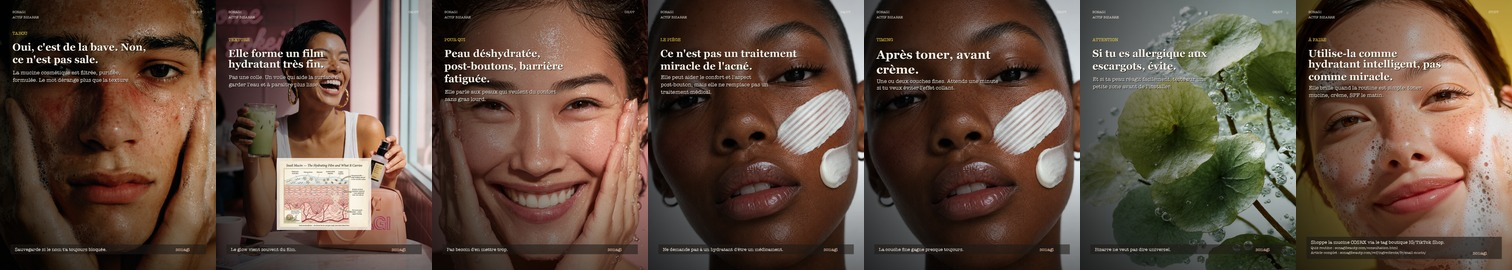
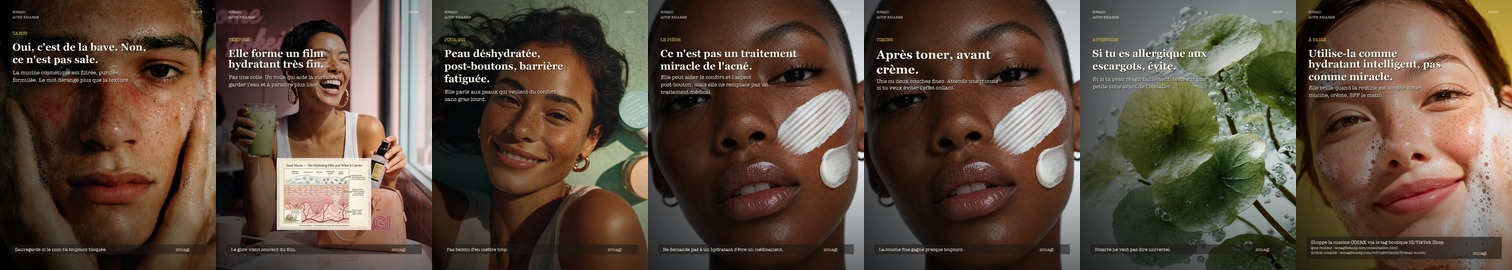
Use Iris assets in Sonagi carousel workflow

Changed region(s): [[0.2798, 0.0, 0.4352, 1.0]]

diff --git a/social-media/instagram/french/to-be-approved/2026/june/week2/launch-carousel-bank-auteur-v1-2026-06-10/generate_launch_bank.py b/social-media/instagram/french/to-be-approved/2026/june/week2/launch-carousel-bank-auteur-v1-2026-06-10/generate_launch_bank.py
@@ -201,6 +201,7 @@ def preview(deck, paths):
 
 IMG = REF / "assets/images"
 DIA = REF / "assets/diagrams"
+IRIS = IMG / "_prompt-library/outputs"
 
 decks = [
     {
@@ -232,7 +233,7 @@ decks = [
         "slides": [
             {"bg": IMG/"sections/comprendre-hero.webp", "kicker": "Mécanisme", "title": "Ta peau se défend avec de l'acidité.", "body": "Pas une acidité qui brûle. Une acidité fine, biologique, qui garde la surface stable.", "cta": "Garde cette slide si ta peau réagit à tout."},
             {"bg": IMG/"basics/_originals/skin-ph-asma.png", "kicker": "La zone", "title": "4,5 à 5,5 : c'est la plage utile.", "body": "Dans cette zone, la couche cornée fonctionne mieux et la barrière se répare plus proprement.", "visual": DIA/"le-ph-de-la-peau.webp", "cta": "Un chiffre peut expliquer beaucoup de tiraillements."},
-            {"bg": IMG/"ingredients/heartleaf-body-1.webp", "kicker": "Après nettoyage", "title": "Un toner doux aide à revenir au calme.", "body": "Il ne doit pas piquer. Il doit remettre de l'eau, du confort, et préparer la suite.", "cta": "Le toner n'est pas une punition alcoolisée."},
+            {"bg": IRIS/"018-heartleaf-body-v1.webp", "kicker": "Après nettoyage", "title": "Un toner doux aide à revenir au calme.", "body": "Il ne doit pas piquer. Il doit remettre de l'eau, du confort, et préparer la suite.", "cta": "Le toner n'est pas une punition alcoolisée."},
             {"bg": IMG/"techniques/glass-skin-2.webp", "kicker": "Texture", "title": "Une peau équilibrée reflète mieux la lumière.", "body": "Le glow commence rarement par un highlighter. Il commence par une surface qui retient l'eau.", "cta": "Le pH est moins glamour, mais plus fondamental."},
             {"bg": IMG/"sections/basic-hero.webp", "kicker": "Erreur", "title": "Le citron, le savon, l'eau chaude : trio faux ami.", "body": "Naturel ne veut pas dire compatible avec ton manteau acide.", "cta": "Simple ne veut pas dire brutal."},
             {"bg": IMG/"basics/la-barriere-cutanee-body-1.webp", "kicker": "Le lien", "title": "pH et barrière travaillent ensemble.", "body": "Quand le pH grimpe, la barrière devient plus perméable. Quand la barrière fuit, tout pique plus vite.", "cta": "Lis l'article complet pour le mécanisme."},
@@ -270,7 +271,7 @@ decks = [
             {"bg": IMG/"basics/hormones-phase-6-real.webp", "kicker": "Pourquoi", "title": "Sébum + kératine + lumière = pore visible.", "body": "Quand la surface est encombrée ou déshydratée, le relief accroche plus la lumière.", "visual": DIA/"le-sebum.webp", "cta": "La visibilité n'est pas une fatalité."},
             {"bg": IMG/"ingredients/niacinamide-hero.webp", "kicker": "Le levier", "title": "La niacinamide aide à réguler sans punir.", "body": "Elle vise le sébum, la barrière et l'inflammation légère. C'est plus fin qu'un produit qui décape.", "visual": DIA/"niacinamide-mechanism.webp", "cta": "Réguler bat assécher."},
             {"bg": IMG/"techniques/glass-skin-2.webp", "kicker": "Hydratation", "title": "Une peau déshydratée montre plus de texture.", "body": "Avant de chercher plus fort, remets de l'eau et protège le film de surface.", "cta": "Le pore visible n'est pas toujours gras."},
-            {"bg": IMG/"ingredients/heartleaf-body-1.webp", "kicker": "Tolérance", "title": "Si ça pique, tu perds le bénéfice.", "body": "Un actif utile devient inutile si la routine autour rend la peau nerveuse.", "cta": "Le calme est une stratégie."},
+            {"bg": IRIS/"018-heartleaf-body-v1.webp", "kicker": "Tolérance", "title": "Si ça pique, tu perds le bénéfice.", "body": "Un actif utile devient inutile si la routine autour rend la peau nerveuse.", "cta": "Le calme est une stratégie."},
             {"bg": IMG/"sections/comprendre-hero.webp", "kicker": "Attente", "title": "On vise moins visible, pas invisible.", "body": "Le but réaliste: surface plus régulière, brillance mieux tenue, taches qui s'installent moins.", "cta": "Pas de filtre, juste une meilleure logique."},
             {"bg": IMG/"cta/cta-newsletter.webp", "kicker": "À faire", "title": "Construis autour du pore, pas contre lui.", "body": "Nettoyage doux, niacinamide, hydratation, SPF. C'est moins spectaculaire, plus durable.", "cta": "Placeholder shop + quiz + article."},
         ],
@@ -286,7 +287,7 @@ decks = [
         "slides": [
             {"bg": IMG/"basics/reparer-barriere-hero.webp", "kicker": "Tabou", "title": "Oui, c'est de la bave. Non, ce n'est pas sale.", "body": "La mucine cosmétique est filtrée, purifiée, formulée. Le mot dérange plus que la texture.", "cta": "Sauvegarde si le nom t'a toujours bloquée."},
             {"bg": IMG/"ingredients/snail-mucin-body-1.webp", "kicker": "Texture", "title": "Elle forme un film hydratant très fin.", "body": "Pas une colle. Un voile qui aide la surface à garder l'eau et à paraître plus lisse.", "visual": DIA/"snail-mucin-mechanism.webp", "cta": "Le glow vient souvent du film."},
-            {"bg": IMG/"techniques/glass-skin-2.webp", "kicker": "Pour qui", "title": "Peau déshydratée, post-boutons, barrière fatiguée.", "body": "Elle parle aux peaux qui veulent du confort sans gras lourd.", "cta": "Pas besoin d'en mettre trop."},
+            {"bg": IRIS/"022-skin-flooding-body-v1.webp", "kicker": "Pour qui", "title": "Peau déshydratée, post-boutons, barrière fatiguée.", "body": "Elle parle aux peaux qui veulent du confort sans gras lourd.", "cta": "Pas besoin d'en mettre trop."},
             {"bg": IMG/"basics/la-barriere-cutanee-body-1.webp", "kicker": "Le piège", "title": "Ce n'est pas un traitement miracle de l'acné.", "body": "Elle peut aider le confort et l'aspect post-bouton, mais elle ne remplace pas un traitement médical.", "cta": "Ne demande pas à un hydratant d'être un médicament."},
             {"bg": IMG/"sections/routine-hero.webp", "kicker": "Timing", "title": "Après toner, avant crème.", "body": "Une ou deux couches fines. Attends une minute si tu veux éviter l'effet collant.", "cta": "La couche fine gagne presque toujours."},
             {"bg": IMG/"sections/ingredient-hero.webp", "kicker": "Attention", "title": "Si tu es allergique aux escargots, évite.", "body": "Et si ta peau réagit facilement, teste sur une petite zone avant de l'installer.", "cta": "Bizarre ne veut pas dire universel."},
@@ -338,7 +339,7 @@ decks = [
         "quiz_url": "sonagibeauty.com/consultation.html",
         "article_url": "sonagibeauty.com/ref/techniques/fr/glass-skin/",
         "slides": [
-            {"bg": IMG/"techniques/skin-flooding-body-1.webp", "kicker": "Mythe", "title": "Le glow K-beauty n'est pas une couche de gras.", "body": "Mool-gwang parle d'eau et de lumière, pas d'une surface saturée.", "cta": "Sauvegarde si ta routine brille mais tire."},
+            {"bg": IRIS/"022-skin-flooding-body-v1.webp", "kicker": "Mythe", "title": "Le glow K-beauty n'est pas une couche de gras.", "body": "Mool-gwang parle d'eau et de lumière, pas d'une surface saturée.", "cta": "Sauvegarde si ta routine brille mais tire."},
             {"bg": IMG/"techniques/glass-skin-2.webp", "kicker": "Optique", "title": "Une peau hydratée reflète autrement.", "body": "Quand la couche cornée retient l'eau, la lumière se pose plus régulièrement.", "visual": DIA/"glass-skin-mechanism.webp", "cta": "Le glow est d'abord une surface."},
             {"bg": IMG/"techniques/double-cleansing-hero.webp", "kicker": "Base", "title": "Le soir commence par retirer SPF et résidus.", "body": "Sans nettoyage doux, tu empiles du soin sur du bruit.", "cta": "La glass skin commence au lavabo."},
             {"bg": IMG/"ingredients/niacinamide-hero.webp", "kicker": "Actifs", "title": "Niacinamide, mucine, heartleaf : couches fines.", "body": "Le secret n'est pas le nombre de produits. C'est leur place, leur dose, leur tolérance.", "cta": "Une peau saturée n'est pas une peau hydratée."},
@@ -359,7 +360,7 @@ decks = [
             {"bg": IMG/"basics/hormones-age-hero.webp", "kicker": "Pattern", "title": "Même zone, même semaine, même bouton.", "body": "Quand ça revient autour du cycle, la peau raconte souvent une histoire hormonale.", "cta": "Sauvegarde si ton menton a un calendrier."},
             {"bg": IMG/"sections/technique-hero.webp", "kicker": "Zone", "title": "Bas du visage, mâchoire, menton.", "body": "Ce sont des zones fréquentes dans l'acné adulte hormonale, surtout quand la poussée est inflammatoire.", "visual": DIA/"acne-hormonale-mechanism.webp", "cta": "Observer le pattern aide déjà."},
             {"bg": IMG/"basics/hormones-phase-6-real.webp", "kicker": "Mécanisme", "title": "Les androgènes stimulent le sébum.", "body": "Plus de sébum, plus de kératine, plus de risque de microcomédon. Ce n'est pas une question de saleté.", "visual": DIA/"le-sebum.webp", "cta": "Laver plus fort n'est pas la réponse."},
-            {"bg": IMG/"ingredients/heartleaf-body-1.webp", "kicker": "Cosmétique", "title": "Les soins calment le terrain, ils ne traitent pas l'hormone.", "body": "Heartleaf, centella, niacinamide peuvent aider la tolérance et la barrière.", "cta": "Le rôle du soin doit rester honnête."},
+            {"bg": IRIS/"018-heartleaf-body-v1.webp", "kicker": "Cosmétique", "title": "Les soins calment le terrain, ils ne traitent pas l'hormone.", "body": "Heartleaf, centella, niacinamide peuvent aider la tolérance et la barrière.", "cta": "Le rôle du soin doit rester honnête."},
             {"bg": IMG/"techniques/double-cleansing-2.webp", "kicker": "Rituel", "title": "Nettoyer doux, surtout les soirs de SPF.", "body": "Le nettoyage doit sortir les résidus sans transformer la barrière en zone rouge.", "cta": "La régularité compte plus que la force."},
             {"bg": IMG/"basics/reparer-barriere-hero.webp", "kicker": "Alerte", "title": "Douleur, nodules, cicatrices : avis médical.", "body": "L'acné modérée à sévère relève du dermatologue. Le cosmétique accompagne, il ne remplace pas.", "cta": "Sonagi ne vend pas de miracle médical."},
             {"bg": IMG/"cta/cta-diagnostic.webp", "kicker": "À faire", "title": "Repère le cycle avant de changer toute ta routine.", "body": "Note la semaine, la zone, la douleur, puis construis une routine qui respecte la barrière.", "cta": "Placeholder shop + quiz + article."},
@@ -377,7 +378,7 @@ decks = [
             {"bg": IMG/"sections/basic-hero.webp", "kicker": "Hot take", "title": "Décaper l'acné peut nourrir l'inflammation.", "body": "Quand la peau est déjà en conflit, trop laver ou trop exfolier peut prolonger le stress.", "cta": "Sauvegarde avant ton prochain gommage."},
             {"bg": IMG/"ingredients/niacinamide-hero.webp", "kicker": "Objectif", "title": "On régule. On ne cherche pas le désert.", "body": "Le sébum protège aussi. Le but est de calmer l'excès, pas d'effacer la peau.", "visual": DIA/"niacinamide-mechanism.webp", "cta": "Une peau sèche peut être encore plus nerveuse."},
             {"bg": IMG/"ingredients/centella-asiatica-hero.webp", "kicker": "Calme", "title": "La centella parle aux peaux qui s'enflamment vite.", "body": "Peu d'ingrédients, texture simple, tolérance. C'est moins sexy qu'un peeling, souvent plus utile.", "cta": "Le calme est un actif."},
-            {"bg": IMG/"ingredients/heartleaf-body-1.webp", "kicker": "Rougeurs", "title": "Heartleaf aide quand la peau brille et rougit.", "body": "Le geste intéressant: apaiser pendant qu'on régule.", "visual": DIA/"heartleaf-mechanism.webp", "cta": "Pas besoin de faire mal pour agir."},
+            {"bg": IRIS/"018-heartleaf-body-v1.webp", "kicker": "Rougeurs", "title": "Heartleaf aide quand la peau brille et rougit.", "body": "Le geste intéressant: apaiser pendant qu'on régule.", "visual": DIA/"heartleaf-mechanism.webp", "cta": "Pas besoin de faire mal pour agir."},
             {"bg": IMG/"routines/routine-homme-body-1.webp", "kicker": "Nettoyage", "title": "Un nettoyant doux vaut mieux que deux agressifs.", "body": "Le soir, retire SPF et pollution. Mais la peau ne doit pas crisser ensuite.", "cta": "Propre n'est pas décapé."},
             {"bg": IMG/"basics/la-barriere-cutanee-body-1.webp", "kicker": "Barrière", "title": "Si tout pique, pause sur les actifs.", "body": "Une barrière abîmée transforme même de bons produits en problème.", "visual": DIA/"la-barriere-cutanee.webp", "cta": "Le reset est parfois la stratégie."},
             {"bg": IMG/"cta/cta-newsletter.webp", "kicker": "À faire", "title": "Construis une routine qui calme avant de corriger.", "body": "Si l'acné est douloureuse ou persistante, avis médical. Pour le reste, commence par la tolérance.", "cta": "Placeholder shop + quiz + article."},
@@ -408,7 +409,8 @@ def main():
             "- No product packshot or second lifestyle photo is pasted on top of the background.\n"
             "- No diagram/chart backgrounds; only crop-safe photos or still lifes.\n"
             "- Each slide must have a different visual family within the carousel, not only a different filename.\n"
-            "- Images selected first from the Sonagi Reference article, then from adjacent Sonagi archive material.\n"
+            "- Images selected first from the same Sonagi Reference article, then crop-safe Iris-produced Sonagi-owned photos, then adjacent Sonagi archive material.\n"
+            "- Wide Iris outputs are not forced into 4:5 backgrounds; request vertical Image Lab variants instead.\n"
             "- Final CTA includes shop tag route, quiz URL, and full article URL.\n"
         )
 

diff --git a/social-media/instagram/french/to-be-approved/2026/june/week2/launch-carousel-bank-auteur-v1-2026-06-10/ANGLE-BANK.md b/social-media/instagram/french/to-be-approved/2026/june/week2/launch-carousel-bank-auteur-v1-2026-06-10/ANGLE-BANK.md
@@ -4,6 +4,14 @@ Date: 2026-06-10
 
 Format: Auteur-style full-bleed photo, upper-left editorial text, optional lower centered diagram, final slide with shop placeholder + quiz + full article.
 
+Visual sourcing order for every future batch:
+1. Images from the same Sonagi Reference article.
+2. Crop-safe Iris-produced / Image Lab Sonagi-owned photos already in `sonagi-reference/assets/images/_prompt-library/outputs/`.
+3. Adjacent owned Sonagi Reference or Sonagi Beauty archive photos.
+4. If none fit, stop and request a new Iris/Image Lab photo instead of forcing a weak background.
+
+Do not force wide Iris outputs into 4:5 slides. Use them as creative direction, then request vertical/crop-safe variants.
+
 ## Accessibility Away From Laptop
 
 Best storage location: this Git-backed folder inside `sonagi-beauty`, then push to GitHub.
@@ -28,7 +36,14 @@ Do not publish the carousels with this placeholder unless the product can actual
 
 ## Iris / Image Lab Requests Before Final Launch Polish
 
-The bank is usable as a launch draft, but the archive is thin for a few angles. Before final publication, ask Iris/image lab for more owned, crop-safe, 4:5 full-bleed photos:
+The bank now uses the crop-safe Iris outputs where they fit the topic:
+
+- `018-heartleaf-body-v1.webp` for Heartleaf / calming / reactive skin logic.
+- `022-skin-flooding-body-v1.webp` for hydration, glow, and mucine comfort logic.
+
+The Beauty of Joseon Iris output remains available for product-led V5 carousels; it is not forced into this launch bank because these launch angles are pH, niacinamide, mucine, slugging, glass skin, and acne.
+
+The bank is usable as a launch draft, but the archive is still thin for a few angles. Before final publication, ask Iris/image lab for more owned, crop-safe, 4:5 full-bleed photos:
 
 - Acné hormonale: 3-4 editorial portraits showing adult acne/cycle sensitivity without feeling clinical or punitive.
 - Mucine d'escargot: 2-3 texture/routine images that are not generic cream-on-face shots.

diff --git a/social-media/instagram/french/to-be-approved/2026/june/week2/reference-carousel-bank-auteur-v5-2026-06-10/CAROUSEL-AUTOMATION-RULES.md b/social-media/instagram/french/to-be-approved/2026/june/week2/reference-carousel-bank-auteur-v5-2026-06-10/CAROUSEL-AUTOMATION-RULES.md
@@ -89,15 +89,17 @@ Weak hooks:
 Image priority:
 
 1. Images from the exact Sonagi Reference article.
-2. Product image from the exact product CTA.
+2. Crop-safe Iris-produced / Image Lab Sonagi-owned photos already available in `sonagi-reference/assets/images/_prompt-library/outputs/`.
 3. Adjacent Sonagi Reference image from the same skin state, ingredient family, or routine moment.
 4. Existing Sonagi archive/social image if it clarifies the same emotional or physical state.
-5. If no good image exists, mark `iris_needed: true` and ask Iris/image lab for a new photo.
+5. Product image from the exact product CTA only when the slide is explicitly about product selection.
+6. If no good image exists, mark `iris_needed: true` and ask Iris/image lab for a new photo.
 
 Image rejection criteria:
 
 - The image only matches the product, not the slide idea.
 - The subject would be destroyed by a 4:5 crop.
+- The image is an Iris horizontal output that needs a vertical variant before full-bleed use.
 - The slide needs intimacy but the image is just a product packshot.
 - The slide needs education but the image is decorative lifestyle filler.
 - The same background appears elsewhere in the same carousel.

diff --git a/social-media/instagram/french/to-be-approved/2026/june/week2/launch-carousel-bank-auteur-v1-2026-06-10/01-ph-savon-marseille/SPEC.md b/social-media/instagram/french/to-be-approved/2026/june/week2/launch-carousel-bank-auteur-v1-2026-06-10/01-ph-savon-marseille/SPEC.md
@@ -5,5 +5,6 @@
 - No product packshot or second lifestyle photo is pasted on top of the background.
 - No diagram/chart backgrounds; only crop-safe photos or still lifes.
 - Each slide must have a different visual family within the carousel, not only a different filename.
-- Images selected first from the Sonagi Reference article, then from adjacent Sonagi archive material.
+- Images selected first from the same Sonagi Reference article, then crop-safe Iris-produced Sonagi-owned photos, then adjacent Sonagi archive material.
+- Wide Iris outputs are not forced into 4:5 backgrounds; request vertical Image Lab variants instead.
 - Final CTA includes shop tag route, quiz URL, and full article URL.

diff --git a/social-media/instagram/french/to-be-approved/2026/june/week2/launch-carousel-bank-auteur-v1-2026-06-10/02-ph-manteau-acide/SPEC.md b/social-media/instagram/french/to-be-approved/2026/june/week2/launch-carousel-bank-auteur-v1-2026-06-10/02-ph-manteau-acide/SPEC.md
@@ -5,5 +5,6 @@
 - No product packshot or second lifestyle photo is pasted on top of the background.
 - No diagram/chart backgrounds; only crop-safe photos or still lifes.
 - Each slide must have a different visual family within the carousel, not only a different filename.
-- Images selected first from the Sonagi Reference article, then from adjacent Sonagi archive material.
+- Images selected first from the same Sonagi Reference article, then crop-safe Iris-produced Sonagi-owned photos, then adjacent Sonagi archive material.
+- Wide Iris outputs are not forced into 4:5 backgrounds; request vertical Image Lab variants instead.
 - Final CTA includes shop tag route, quiz URL, and full article URL.

diff --git a/social-media/instagram/french/to-be-approved/2026/june/week2/launch-carousel-bank-auteur-v1-2026-06-10/03-niacinamide-lente/SPEC.md b/social-media/instagram/french/to-be-approved/2026/june/week2/launch-carousel-bank-auteur-v1-2026-06-10/03-niacinamide-lente/SPEC.md
@@ -5,5 +5,6 @@
 - No product packshot or second lifestyle photo is pasted on top of the background.
 - No diagram/chart backgrounds; only crop-safe photos or still lifes.
 - Each slide must have a different visual family within the carousel, not only a different filename.
-- Images selected first from the Sonagi Reference article, then from adjacent Sonagi archive material.
+- Images selected first from the same Sonagi Reference article, then crop-safe Iris-produced Sonagi-owned photos, then adjacent Sonagi archive material.
+- Wide Iris outputs are not forced into 4:5 backgrounds; request vertical Image Lab variants instead.
 - Final CTA includes shop tag route, quiz URL, and full article URL.

diff --git a/social-media/instagram/french/to-be-approved/2026/june/week2/launch-carousel-bank-auteur-v1-2026-06-10/04-niacinamide-pores/SPEC.md b/social-media/instagram/french/to-be-approved/2026/june/week2/launch-carousel-bank-auteur-v1-2026-06-10/04-niacinamide-pores/SPEC.md
@@ -5,5 +5,6 @@
 - No product packshot or second lifestyle photo is pasted on top of the background.
 - No diagram/chart backgrounds; only crop-safe photos or still lifes.
 - Each slide must have a different visual family within the carousel, not only a different filename.
-- Images selected first from the Sonagi Reference article, then from adjacent Sonagi archive material.
+- Images selected first from the same Sonagi Reference article, then crop-safe Iris-produced Sonagi-owned photos, then adjacent Sonagi archive material.
+- Wide Iris outputs are not forced into 4:5 backgrounds; request vertical Image Lab variants instead.
 - Final CTA includes shop tag route, quiz URL, and full article URL.

diff --git a/social-media/instagram/french/to-be-approved/2026/june/week2/launch-carousel-bank-auteur-v1-2026-06-10/05-snail-mucin-tabou/SPEC.md b/social-media/instagram/french/to-be-approved/2026/june/week2/launch-carousel-bank-auteur-v1-2026-06-10/05-snail-mucin-tabou/SPEC.md
@@ -5,5 +5,6 @@
 - No product packshot or second lifestyle photo is pasted on top of the background.
 - No diagram/chart backgrounds; only crop-safe photos or still lifes.
 - Each slide must have a different visual family within the carousel, not only a different filename.
-- Images selected first from the Sonagi Reference article, then from adjacent Sonagi archive material.
+- Images selected first from the same Sonagi Reference article, then crop-safe Iris-produced Sonagi-owned photos, then adjacent Sonagi archive material.
+- Wide Iris outputs are not forced into 4:5 backgrounds; request vertical Image Lab variants instead.
 - Final CTA includes shop tag route, quiz URL, and full article URL.

diff --git a/social-media/instagram/french/to-be-approved/2026/june/week2/launch-carousel-bank-auteur-v1-2026-06-10/06-snail-mucin-post-acne/SPEC.md b/social-media/instagram/french/to-be-approved/2026/june/week2/launch-carousel-bank-auteur-v1-2026-06-10/06-snail-mucin-post-acne/SPEC.md
@@ -5,5 +5,6 @@
 - No product packshot or second lifestyle photo is pasted on top of the background.
 - No diagram/chart backgrounds; only crop-safe photos or still lifes.
 - Each slide must have a different visual family within the carousel, not only a different filename.
-- Images selected first from the Sonagi Reference article, then from adjacent Sonagi archive material.
+- Images selected first from the same Sonagi Reference article, then crop-safe Iris-produced Sonagi-owned photos, then adjacent Sonagi archive material.
+- Wide Iris outputs are not forced into 4:5 backgrounds; request vertical Image Lab variants instead.
 - Final CTA includes shop tag route, quiz URL, and full article URL.

diff --git a/social-media/instagram/french/to-be-approved/2026/june/week2/launch-carousel-bank-auteur-v1-2026-06-10/07-slugging-pas-pour-tout-le-monde/SPEC.md b/social-media/instagram/french/to-be-approved/2026/june/week2/launch-carousel-bank-auteur-v1-2026-06-10/07-slugging-pas-pour-tout-le-monde/SPEC.md
@@ -5,5 +5,6 @@
 - No product packshot or second lifestyle photo is pasted on top of the background.
 - No diagram/chart backgrounds; only crop-safe photos or still lifes.
 - Each slide must have a different visual family within the carousel, not only a different filename.
-- Images selected first from the Sonagi Reference article, then from adjacent Sonagi archive material.
+- Images selected first from the same Sonagi Reference article, then crop-safe Iris-produced Sonagi-owned photos, then adjacent Sonagi archive material.
+- Wide Iris outputs are not forced into 4:5 backgrounds; request vertical Image Lab variants instead.
 - Final CTA includes shop tag route, quiz URL, and full article URL.

diff --git a/social-media/instagram/french/to-be-approved/2026/june/week2/launch-carousel-bank-auteur-v1-2026-06-10/08-glass-skin-pas-huile/SPEC.md b/social-media/instagram/french/to-be-approved/2026/june/week2/launch-carousel-bank-auteur-v1-2026-06-10/08-glass-skin-pas-huile/SPEC.md
@@ -5,5 +5,6 @@
 - No product packshot or second lifestyle photo is pasted on top of the background.
 - No diagram/chart backgrounds; only crop-safe photos or still lifes.
 - Each slide must have a different visual family within the carousel, not only a different filename.
-- Images selected first from the Sonagi Reference article, then from adjacent Sonagi archive material.
+- Images selected first from the same Sonagi Reference article, then crop-safe Iris-produced Sonagi-owned photos, then adjacent Sonagi archive material.
+- Wide Iris outputs are not forced into 4:5 backgrounds; request vertical Image Lab variants instead.
 - Final CTA includes shop tag route, quiz URL, and full article URL.

diff --git a/social-media/instagram/french/to-be-approved/2026/june/week2/launch-carousel-bank-auteur-v1-2026-06-10/09-acne-cycle/SPEC.md b/social-media/instagram/french/to-be-approved/2026/june/week2/launch-carousel-bank-auteur-v1-2026-06-10/09-acne-cycle/SPEC.md
@@ -5,5 +5,6 @@
 - No product packshot or second lifestyle photo is pasted on top of the background.
 - No diagram/chart backgrounds; only crop-safe photos or still lifes.
 - Each slide must have a different visual family within the carousel, not only a different filename.
-- Images selected first from the Sonagi Reference article, then from adjacent Sonagi archive material.
+- Images selected first from the same Sonagi Reference article, then crop-safe Iris-produced Sonagi-owned photos, then adjacent Sonagi archive material.
+- Wide Iris outputs are not forced into 4:5 backgrounds; request vertical Image Lab variants instead.
 - Final CTA includes shop tag route, quiz URL, and full article URL.
